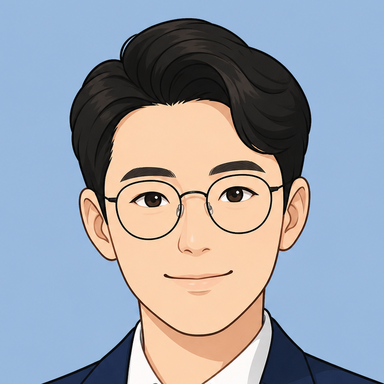
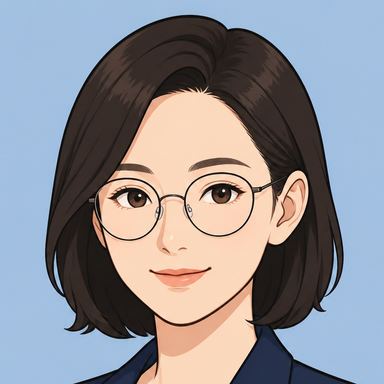
fix: KYLE(제리) 아바타를 여성 총괄 PM 카툰으로 교체 (사용자 지시)

diff --git a/index.html b/index.html
@@ -13,7 +13,7 @@
 <link rel="preconnect" href="https://fonts.googleapis.com" />
 <link rel="preconnect" href="https://fonts.gstatic.com" crossorigin />
 <link href="https://fonts.googleapis.com/css2?family=Gowun+Dodum&family=Noto+Sans+KR:wght@400;500;700;900&display=swap" rel="stylesheet" />
-<link rel="stylesheet" href="styles.css?v=20261128e" />
+<link rel="stylesheet" href="styles.css?v=20261128f" />
 </head>
 <body>
 <a class="skip" href="#chat">채팅으로 건너뛰기</a>
@@ -408,6 +408,6 @@ PUT  /presence/&lt;clientId&gt;.json
 </div>
 
 <div class="toast" id="toast" role="status" aria-live="polite" hidden></div>
-<script src="app.js?v=20261128e"></script>
+<script src="app.js?v=20261128f"></script>
 </body>
 </html>

diff --git a/app.js b/app.js
@@ -232,7 +232,7 @@
 
   /* ---------------- cartoon face avatars ---------------- */
   // 2026-11-28: SVG 글리프 대신 쓰는 카툰 얼굴 이미지. 로드 실패 시 기존 글리프로 자동 대체됩니다.
-  const AVATAR_V = '20261128e';
+  const AVATAR_V = '20261128f';
   const faceHTML = (c, cls = '') => `<span class="face ${cls}" style="--fc:${c.color}">
       <img class="face-img" src="assets/avatars/${c.id}.png?v=${AVATAR_V}" alt="" width="384" height="384"
         decoding="async" onerror="this.parentNode.classList.add('face-failed')" />
